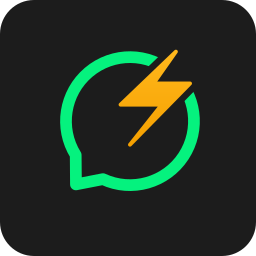
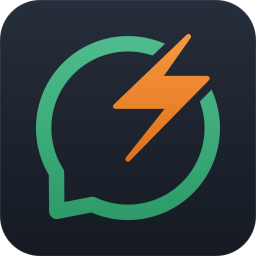
chore(release): 0.2.1
Icon-only release. 0.2.0 shipped with the previous neon-green mark, and
the Marketplace will not accept a second upload under the same version,
so the redrawn icon needs its own number to reach the listing.

The mark now fills ~72% of the plate rather than 55%, the palette is
pulled well inside the sRGB gamut (emerald bubble, orange bolt, slate
gradient plate), and the Activity Bar icon is deliberately untouched:
VS Code renders it as a single-colour mask, so neither change applies.

diff --git a/CHANGELOG.md b/CHANGELOG.md
@@ -2,6 +2,18 @@
 
 All notable changes to the AI Prompt File Manager extension are documented in this file.
 
+## [0.2.1] - 2026-09-20
+
+### Changed
+
+- **The Marketplace icon is calmer and larger.** The mark now fills about 72% of the plate
+  instead of 55%, so it reads at the ~42px the Extensions list gives it. The neon green
+  and yellow-amber are gone: the bubble is a restrained emerald, the bolt a proper orange,
+  and the flat black plate is a slate-charcoal gradient that reads as a surface rather than
+  a hole on both light and dark Marketplace themes. The Activity Bar icon is unchanged — VS
+  Code renders it as a single-colour mask at codicon size, so neither the colour nor the
+  scale change applies there.
+
 ## [0.2.0] - 2026-09-20
 
 ### Added
